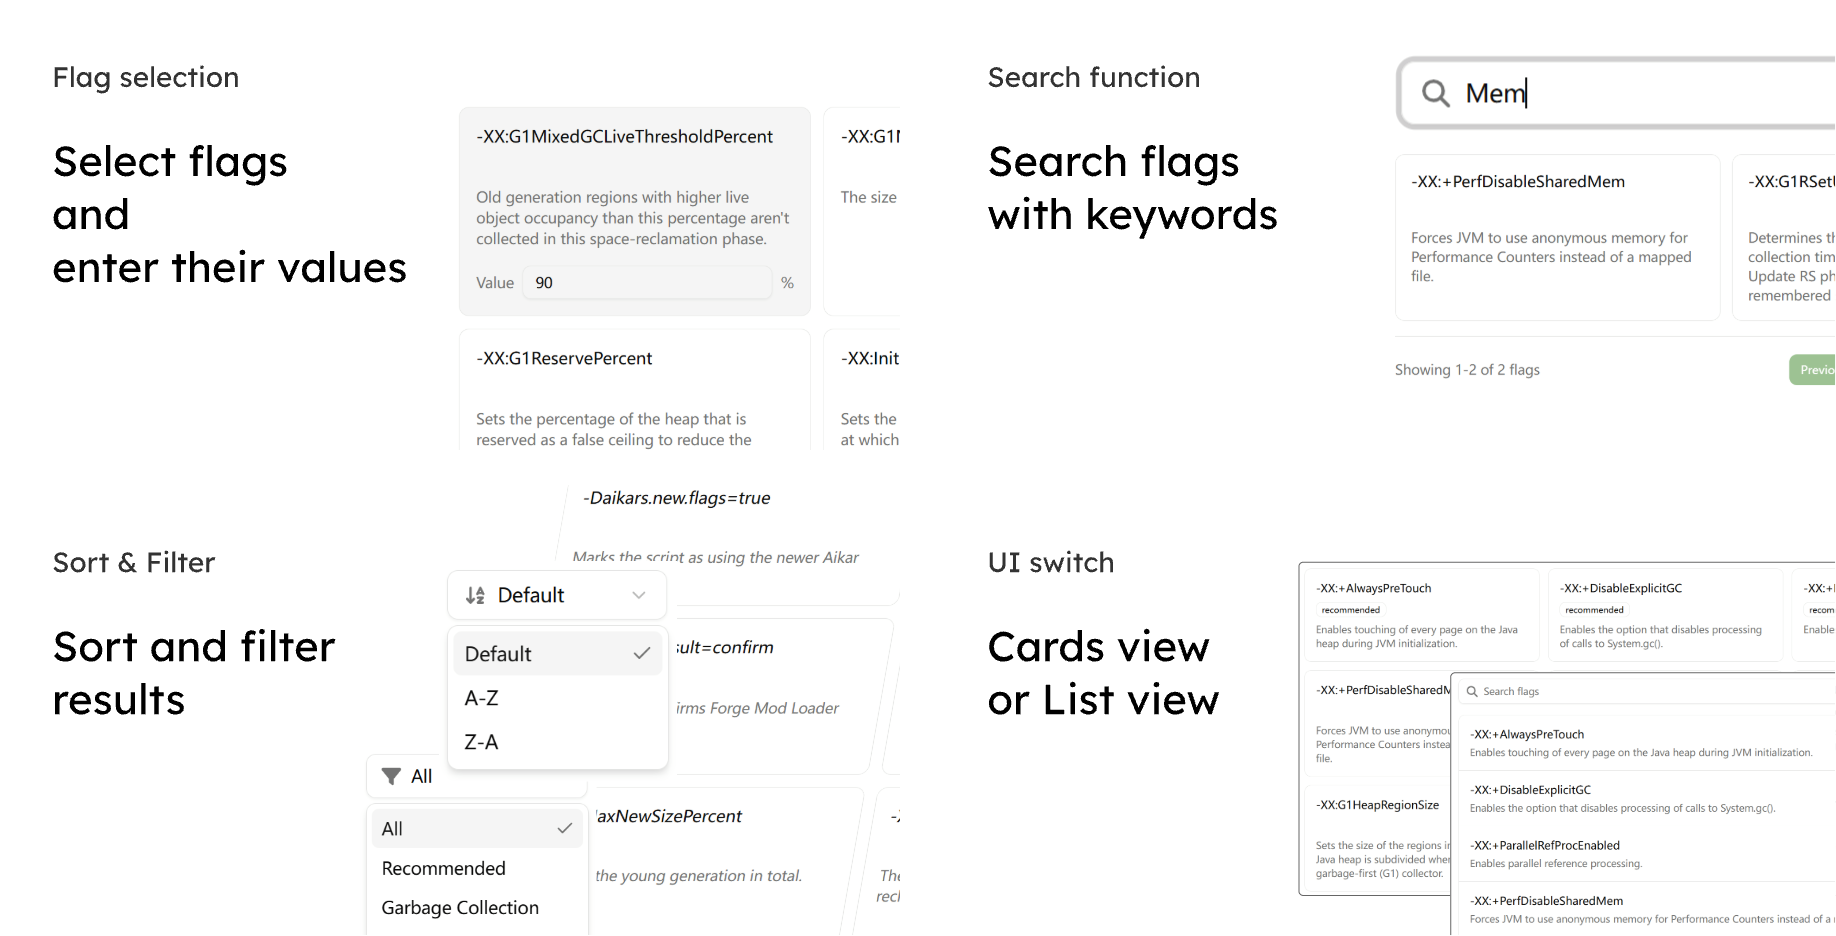
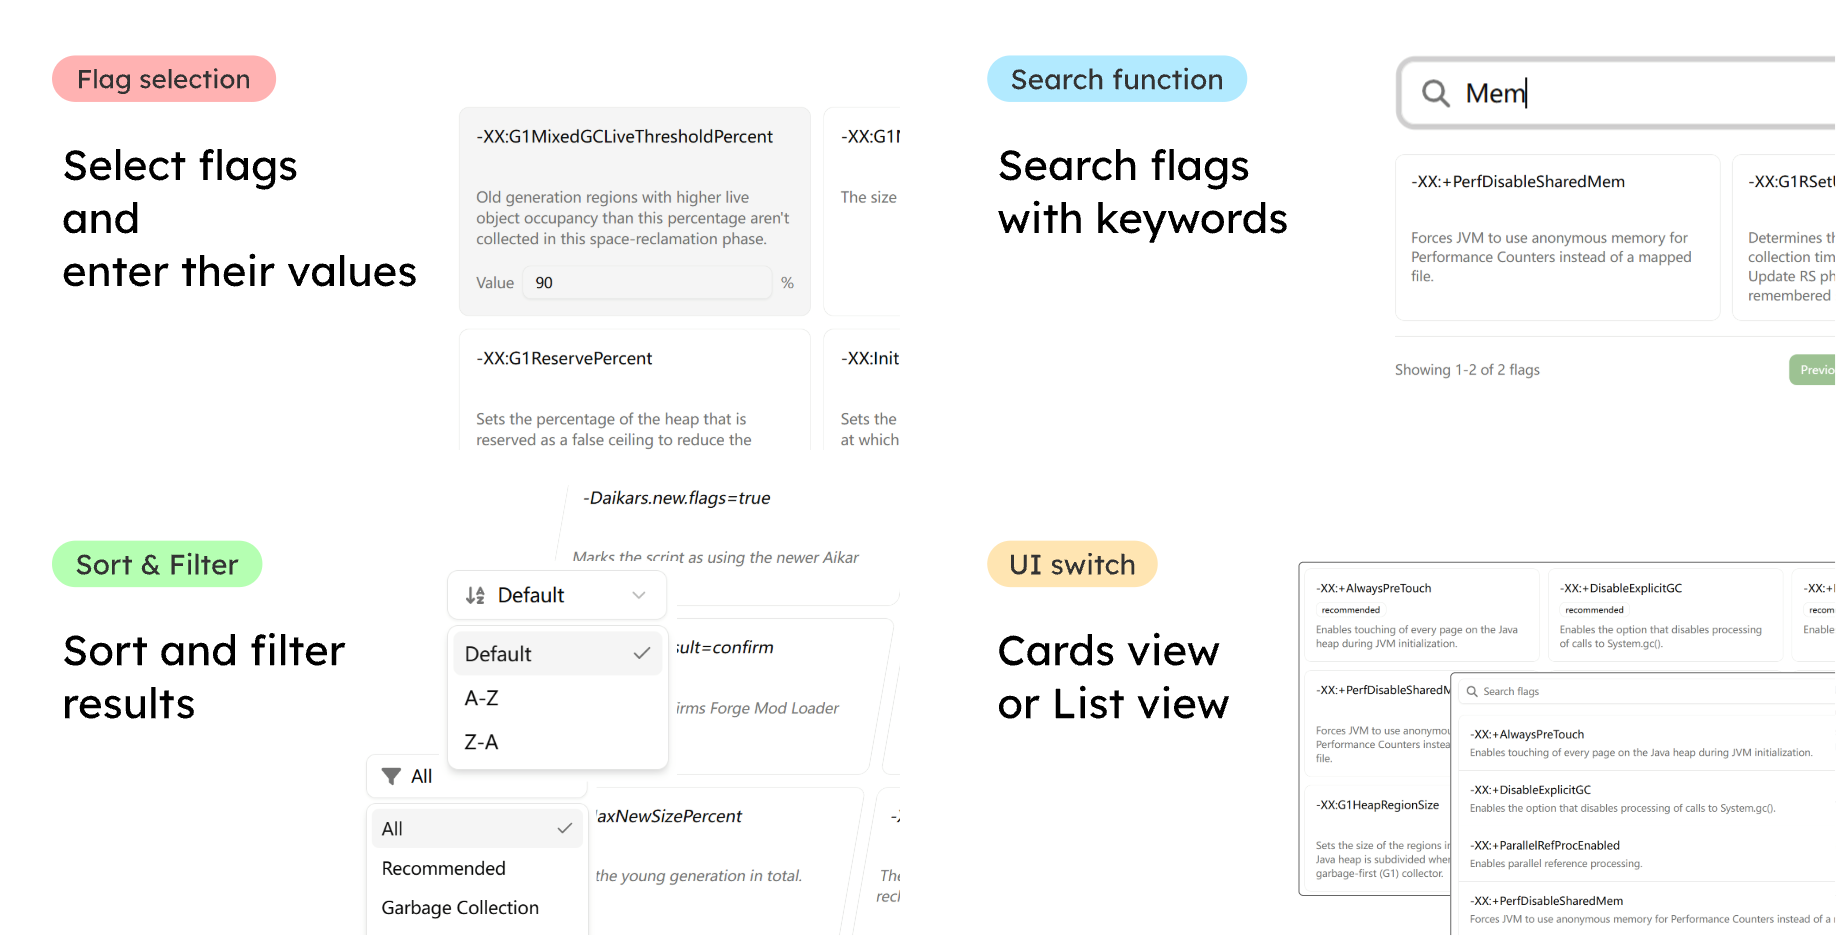
docs(readme): add submit links and update screenshots

diff --git a/README.md b/README.md
@@ -38,14 +38,14 @@ Don't know which flags to use? Choose from preset flag sets such as Aikar's, Com
 
 By choosing Custom, you can start building your flag set from scratch.
 
-You can also submit your own flag sets.
+You can also [submit your own flag sets](https://github.com/katorlys/mcflags/issues/new?template=2-submit-flag-set.yml).
 
 ### Flag selection area
 Search, filter, sort, and select JVM flags.
 
 ![](screenshots/flag-selection.png)
 
-If a flag you use is not included in the list, you can submit it.
+If a flag you use is not included in the list, you can [submit it](https://github.com/katorlys/mcflags/issues/new?template=1-submit-flag.yml).
 
 ### Result editor
 Edit the generated result directly, with built-in auto-complete and synchronization to the flag selection area.